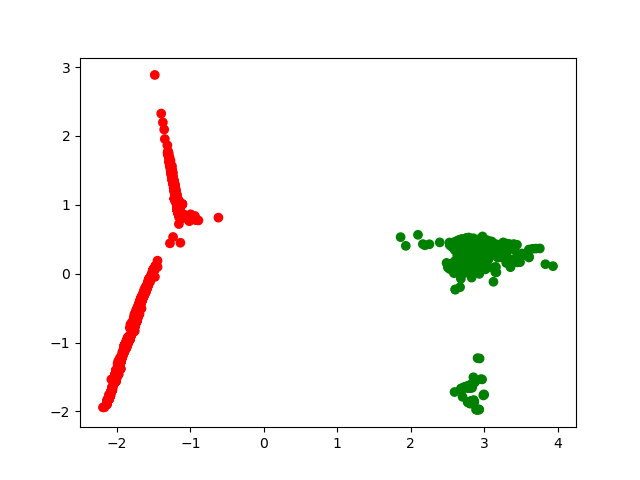
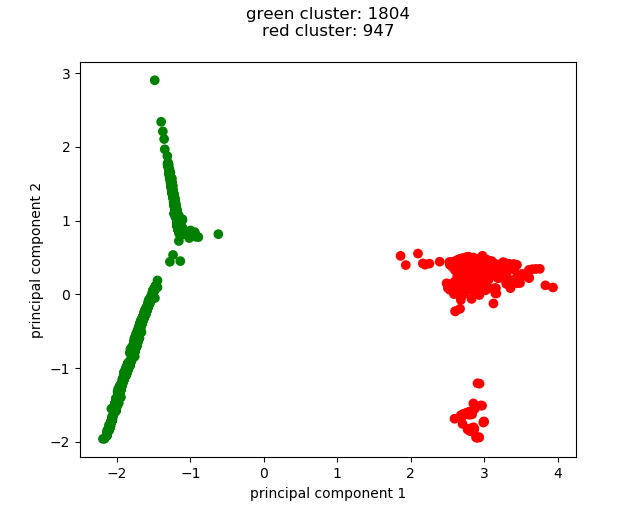
add log examples and figures

diff --git a/LogAnomalyAnalyzer.py b/LogAnomalyAnalyzer.py
@@ -1,35 +1,32 @@
+#keep track of how long it takes to run
 import time
 start = int(time.time())
 
-data_path = "TestData/cleaned_logs_only_alphabet.csv"
-
-import pandas as pd
-from sklearn.cluster import KMeans
-
-
-print('done importing')
+print('done importing') #it takes a few seconds...
 
 class ErrorBlock:
     def __init__(self):
         self.errs = []
         self.prev = []
-
         self.features = {}
 
     def __str__(self):
-        return "{}\n\n{}".format(self.errs.__str__(),self.prev.__str__())
-
+        errorstring = ""
+        for error in self.errs:
+            errorstring += str(error.name)+"    "+error[0]+error[1]+"\n"
+        return "{}\n{}".format(self.prev,errorstring)
+    
     def getFirstErrorIdx(self):
         return self.errs[0].name
 
     def setPrevLines(self,alldata):
+        #get & set as self.prev the last {x} lines before the error block
         endIdx = self.getFirstErrorIdx()
-        startIdx = endIdx-10
-        if startIdx<0: startIdx = 0
+        startIdx = endIdx-10 #10 is just a magic number. you can look as far back as you want from the error block
+        if startIdx<0: startIdx = 0 # make start index 0 if it's <0
         self.prev = alldata.iloc[startIdx:endIdx]
 
     def setFeatures(self,corpus):
-        
         tokens = {k:0 for k in corpus.keys()}
         #for each error in the block
         for error in self.errs:
@@ -45,6 +42,10 @@ class ErrorBlock:
                     tokens[word]+=1
 
         self.features = tokens
+
+        #return self for eazy tokenizing with the:
+        #"errorblocks = [errblock.setFeatures(corpus) for errblock in errorblocks]"
+        #line down below in the main program
         return self
         
         
@@ -68,6 +69,8 @@ def getCorpus(errorblocklist):
                     corpus[word]+=1
                 else:
                     corpus[word]=1
+
+    #remove things that are obviously not words
     try:
         corpus.pop('')
     except KeyError:
@@ -80,14 +83,19 @@ def getCorpus(errorblocklist):
         corpus.pop('"')
     except KeyError:
         pass
+
     return corpus
+
 #load dataset
-#data = pd.read_csv("reformat.csv",header=0,encoding='macintosh')
+import pandas as pd
+data_path = "TestData/cleaned_logs_only_alphabet.csv"
 data = pd.read_csv(data_path,header=0,encoding='macintosh')
+
 #get all error lines
 all_errs = data.loc[(data['LOGCODE'].str.lower().str.contains("e"))&(~data['LOGCODE'].str.lower().str.contains("d"))&(~data['LOGCODE'].str.lower().str.contains("f")) ]
 
-###get all the error blocks
+########################################
+#get all the error blocks
 errorblocks = []
 
 #setup for error blocks
@@ -96,92 +104,76 @@ errorblock = ErrorBlock()
 errorblock.errs.append(all_errs.loc[lastidx])
 
 for idx in all_errs.index[1:]:
-    #if next index is consecutive append to error.errorlist
+    #if next index is consecutively after the last index we saw, append to error.errorlist
     if idx-lastidx==1: 
-        errorblock.errs.append(all_errs.loc[idx])
+        errorblock.errs.append(all_errs.loc[idx]) #append the error we're looking at to the error block
         
-    #else, append this errorblock to the errormake a new error
+    #else, append this errorblock to the errormake then start a new error block
     else:
-        errorblock.setPrevLines(data) #get previous lines
+        errorblock.setPrevLines(data) #get & set previous lines from this error
         errorblocks.append(errorblock)
         errorblock = ErrorBlock()
-        errorblock.errs.append(all_errs.loc[idx])
-        
+        errorblock.errs.append(all_errs.loc[idx]) #append the error we're looking at to the error block
+
+    #update the last index we've seen
     lastidx = idx
+    
 #append the last block
 errorblock.setPrevLines(data)
 errorblocks.append(errorblock)
+########################################
 
-#[  13 2554]
-##del errorblocks[13]
-##del errorblocks[2553]
-
+#get corpus for tokens
 corpus = getCorpus(errorblocks)
+
+#tokenize error blocks
 errorblocks = [errblock.setFeatures(corpus) for errblock in errorblocks]
+
+#get all the feature vectors from the error blocks
 x = [list(errblock.features.values()) for errblock in errorblocks]
 
+#normalize data
 from sklearn.preprocessing import MinMaxScaler
 scaled = MinMaxScaler().fit(x).transform(x)
 
+#find the best features with PCA
 from sklearn.decomposition import PCA
-pca = PCA(n_components = 2)#'mle', svd_solver = 'full')
-##x = pca.fit_transform(scaled)
+pca = PCA(n_components = 2)
 scaled = pca.fit_transform(scaled)
-##from sklearn.preprocessing import MinMaxScaler
-##
-##scaled = MinMaxScaler().fit(x).transform(x)
 
+#cluster the data and get the number of points in each cluster
+from sklearn.cluster import KMeans
 kmeans = KMeans(n_clusters=2).fit(scaled)
 import numpy
 unique, counts = numpy.unique(kmeans.labels_, return_counts=True)
 
+#get an example from each cluster to display
+ex0 = numpy.argwhere(kmeans.labels_ == 0)[0][0]
+ex1 = numpy.argwhere(kmeans.labels_ == 1)[0][0]
+err0 = errorblocks[ex0]
+err1 = errorblocks[ex1]
+print("{}\n\n{}".format(err0,err1))
 
-LABEL_COLOR_MAP = {0 : 'green',
-                   1 : 'red'
-##                   2 : 'blue',
-##                   3 : 'yellow'
-                   }
-
-color = [LABEL_COLOR_MAP[i] for i in kmeans.labels_]
-
+#plot the data
 import matplotlib.pyplot as plt
-
+LABEL_COLOR_MAP = {0 : 'green', 1 : 'red'}
+color = [LABEL_COLOR_MAP[i] for i in kmeans.labels_]
 plt.scatter(scaled[:,0],scaled[:,1],c=color)
 
-print("feature size: {}".format(len(scaled[0])))
+#plt.show() is down below
 
+#print info about data set
+print("feature size: {}".format(len(scaled[0]))) #corresponds to the n_components in the pca call above
+clusterstring = ""
 for idx,cluster in enumerate(counts):
-    print("{} cluster: {}".format(LABEL_COLOR_MAP[idx],cluster))
-#print("cluster1: {}, cluster2: {}".format(counts[0],counts[1]))
-##weirdOnes = numpy.where(kmeans.labels_ == 1)[0]
-##print("weird ones are: {}".format(weirdOnes))
+    clusterstring += "{} cluster: {}\n".format(LABEL_COLOR_MAP[idx],cluster) #{color} cluster: #
 
+print(clusterstring)
 end = int(time.time())
-print("took {} seconds".format(end-start))
+print("took {} seconds".format(end-start)) #time it took to run the program
 
-
+#show the plot
+plt.title(clusterstring)
+plt.xlabel("principal component 1")
+plt.ylabel("principal component 2")
 plt.show()
-
-###### template
-##y = []
-##for c in range(n_classes):
-##    it = c*8
-##    cls = pcatrans[n_samples*c:n_samples*(c+1)]
-##    kmeans = KMeans(n_clusters=8, random_state=0).fit(cls)
-##    labels = kmeans.labels_
-##    labels = [label+it for label in labels]
-##    y+=labels
-
-
-
-####for formatting the csv, but this doesn't work well
-##csv=False
-##if csv:
-##    f = open("reformat.csv",'rb')
-##    d = f.readlines()
-##    f.close()
-##    for idx,line in enumerate(d):
-##        d[idx] = line.replace(b",",b' ').rstrip(b",")
-##    f = open("reformat.csv",'wb')
-##    f.writelines(d)
-##    f.close()
